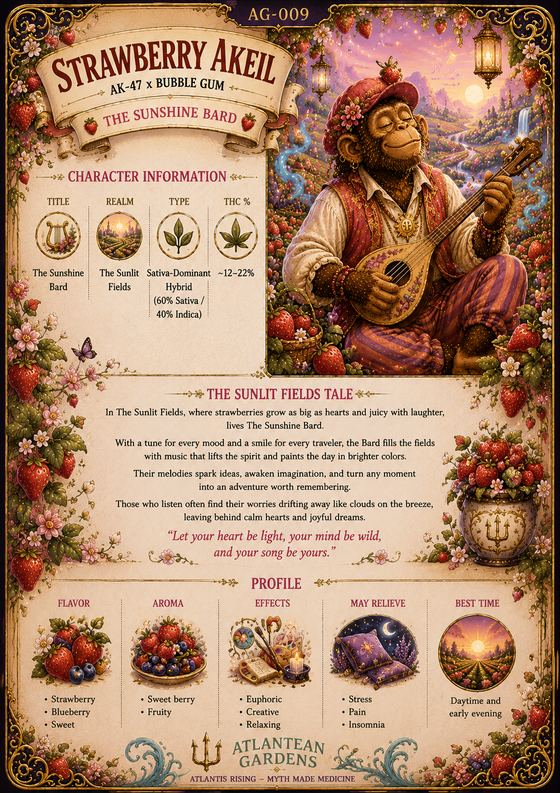
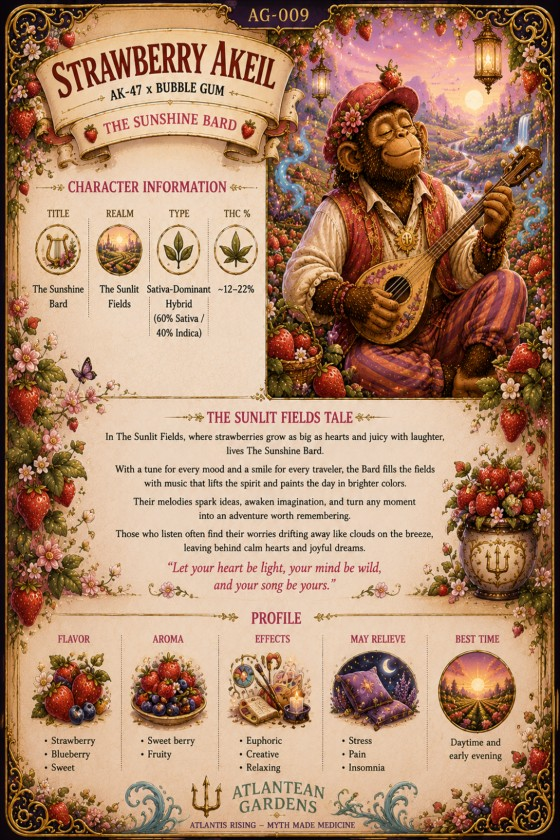
New Honey Melon Kush card; every card image now 2:3
- Honey Melon Kush: Cassidy's new card replaces the old one, which showed
  the brand mascot. Kasper is its character, it's numbered AG-027, its
  blurb and quote come from the new card, and it now appears on Kasper's
  Keeper page.
- Card shapes: eight images weren't 2:3, so the strain grid cut off parts
  of their frames. The slightly wide 5:7 cards are narrowed by 5.6%; the
  taller fronts (Grandpa Cookies, White Wedding RBX, Mango Kush) lose
  thin rows from their calmest areas before a small squeeze. Nothing is
  cropped. Changed images carry a ?v=2 tag so browsers fetch them fresh.

diff --git a/living-atlas/data/world.js b/living-atlas/data/world.js
@@ -998,7 +998,7 @@ window.WORLD = {
   {
    "id": "honey-melon-kush",
    "name": "Honey Melon Kush",
-   "code": "",
+   "code": "AG-027",
    "title": "The Afternoon Nap",
    "category": "Indica",
    "realm": "sunlight-realms",
@@ -1007,10 +1007,11 @@ window.WORLD = {
     "peace"
    ],
    "relations": [
+    "kasper",
     "strawberry-akeil"
    ],
-   "body": "Slow, syrup-thick, unhurried — the kind of strain that turns a bench into a place you fall asleep on purpose.",
-   "quote": "Some afternoons are meant to be lost.",
+   "body": "Honey Melon Kush reminds us that sweetness and strength can live together in perfect harmony.",
+   "quote": "The sweetest gifts are the ones the earth and sky create together.",
    "flavor": "",
    "aroma": "",
    "effects": "",
@@ -1018,10 +1019,10 @@ window.WORLD = {
    "terpenes": [],
    "growNotes": "",
    "art": {
-    "front": "assets/cards/honey-melon-kush-front.jpg",
-    "back": "assets/cards/honey-melon-kush-back.jpg"
+    "front": "assets/cards/honey-melon-kush-front.jpg?v=2",
+    "back": "assets/cards/honey-melon-kush-back.jpg?v=2"
    },
-   "printedRealm": "The Orchard",
+   "printedRealm": "The Living Harvest Realm",
    "cardTitle": "The Sunkissed Sweetie"
   },
   {
@@ -1164,8 +1165,8 @@ window.WORLD = {
    "terpenes": [],
    "growNotes": "",
    "art": {
-    "front": "assets/cards/strawberry-akeil-front.jpg",
-    "back": "assets/cards/strawberry-akeil-back.jpg"
+    "front": "assets/cards/strawberry-akeil-front.jpg?v=2",
+    "back": "assets/cards/strawberry-akeil-back.jpg?v=2"
    },
    "printedRealm": "The Sunlit Fields"
   },
@@ -1188,7 +1189,7 @@ window.WORLD = {
    "terpenes": [],
    "growNotes": "",
    "art": {
-    "front": "assets/cards/mango-kush-front.jpg",
+    "front": "assets/cards/mango-kush-front.jpg?v=2",
     "back": null
    },
    "printedRealm": "Sun Realm"
@@ -1212,8 +1213,8 @@ window.WORLD = {
    "terpenes": [],
    "growNotes": "",
    "art": {
-    "front": "assets/cards/grandpa-cookies-front.jpg",
-    "back": "assets/cards/grandpa-cookies-back.jpg"
+    "front": "assets/cards/grandpa-cookies-front.jpg?v=2",
+    "back": "assets/cards/grandpa-cookies-back.jpg?v=2"
    },
    "printedRealm": "The Orchard"
   },
@@ -1236,8 +1237,8 @@ window.WORLD = {
    "terpenes": [],
    "growNotes": "",
    "art": {
-    "front": "assets/cards/white-wedding-rbx-front.jpg",
-    "back": "assets/cards/white-wedding-rbx-back.jpg"
+    "front": "assets/cards/white-wedding-rbx-front.jpg?v=2",
+    "back": "assets/cards/white-wedding-rbx-back.jpg?v=2"
    },
    "printedRealm": "The Garden"
   },
@@ -1260,8 +1261,8 @@ window.WORLD = {
    "terpenes": [],
    "growNotes": "",
    "art": {
-    "front": "assets/cards/chocolate-diesel-front.jpg",
-    "back": "assets/cards/chocolate-diesel-back.jpg"
+    "front": "assets/cards/chocolate-diesel-front.jpg?v=2",
+    "back": "assets/cards/chocolate-diesel-back.jpg?v=2"
    },
    "printedRealm": "The Foundry"
   },
